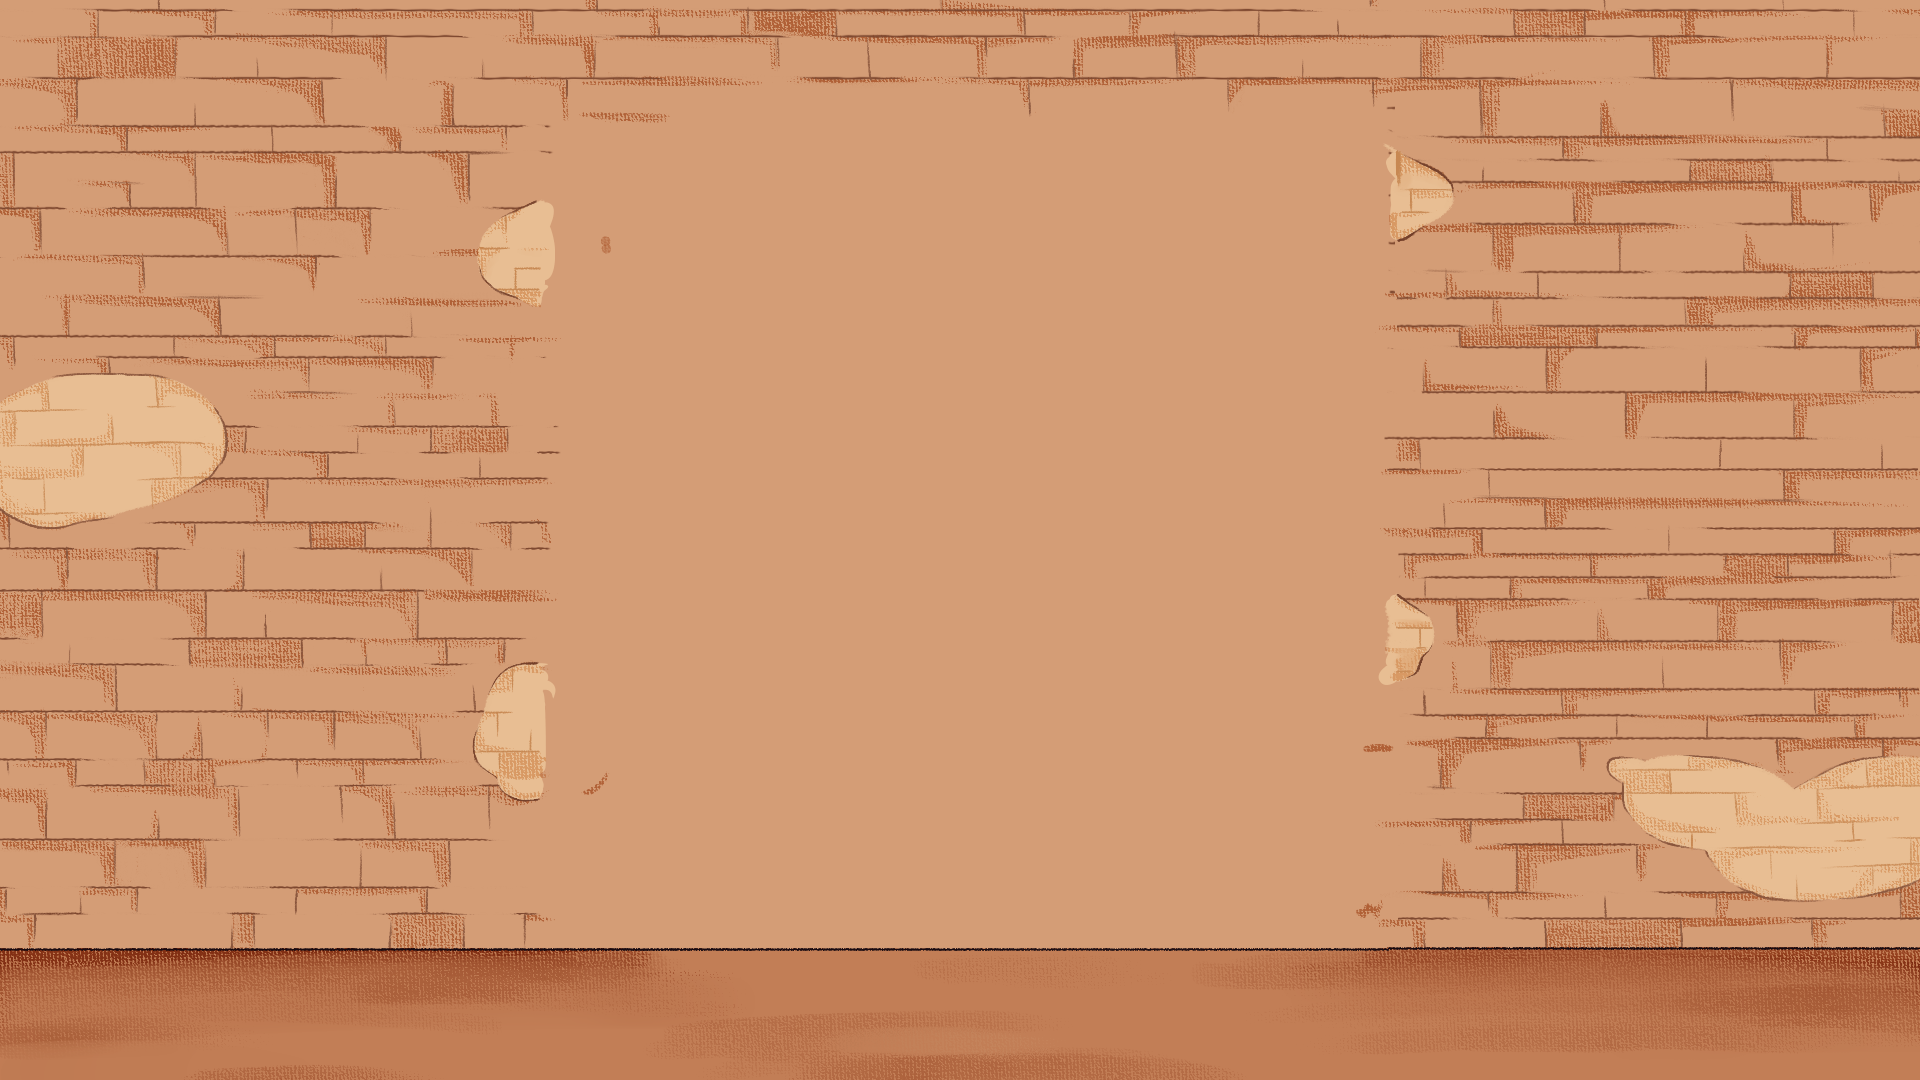
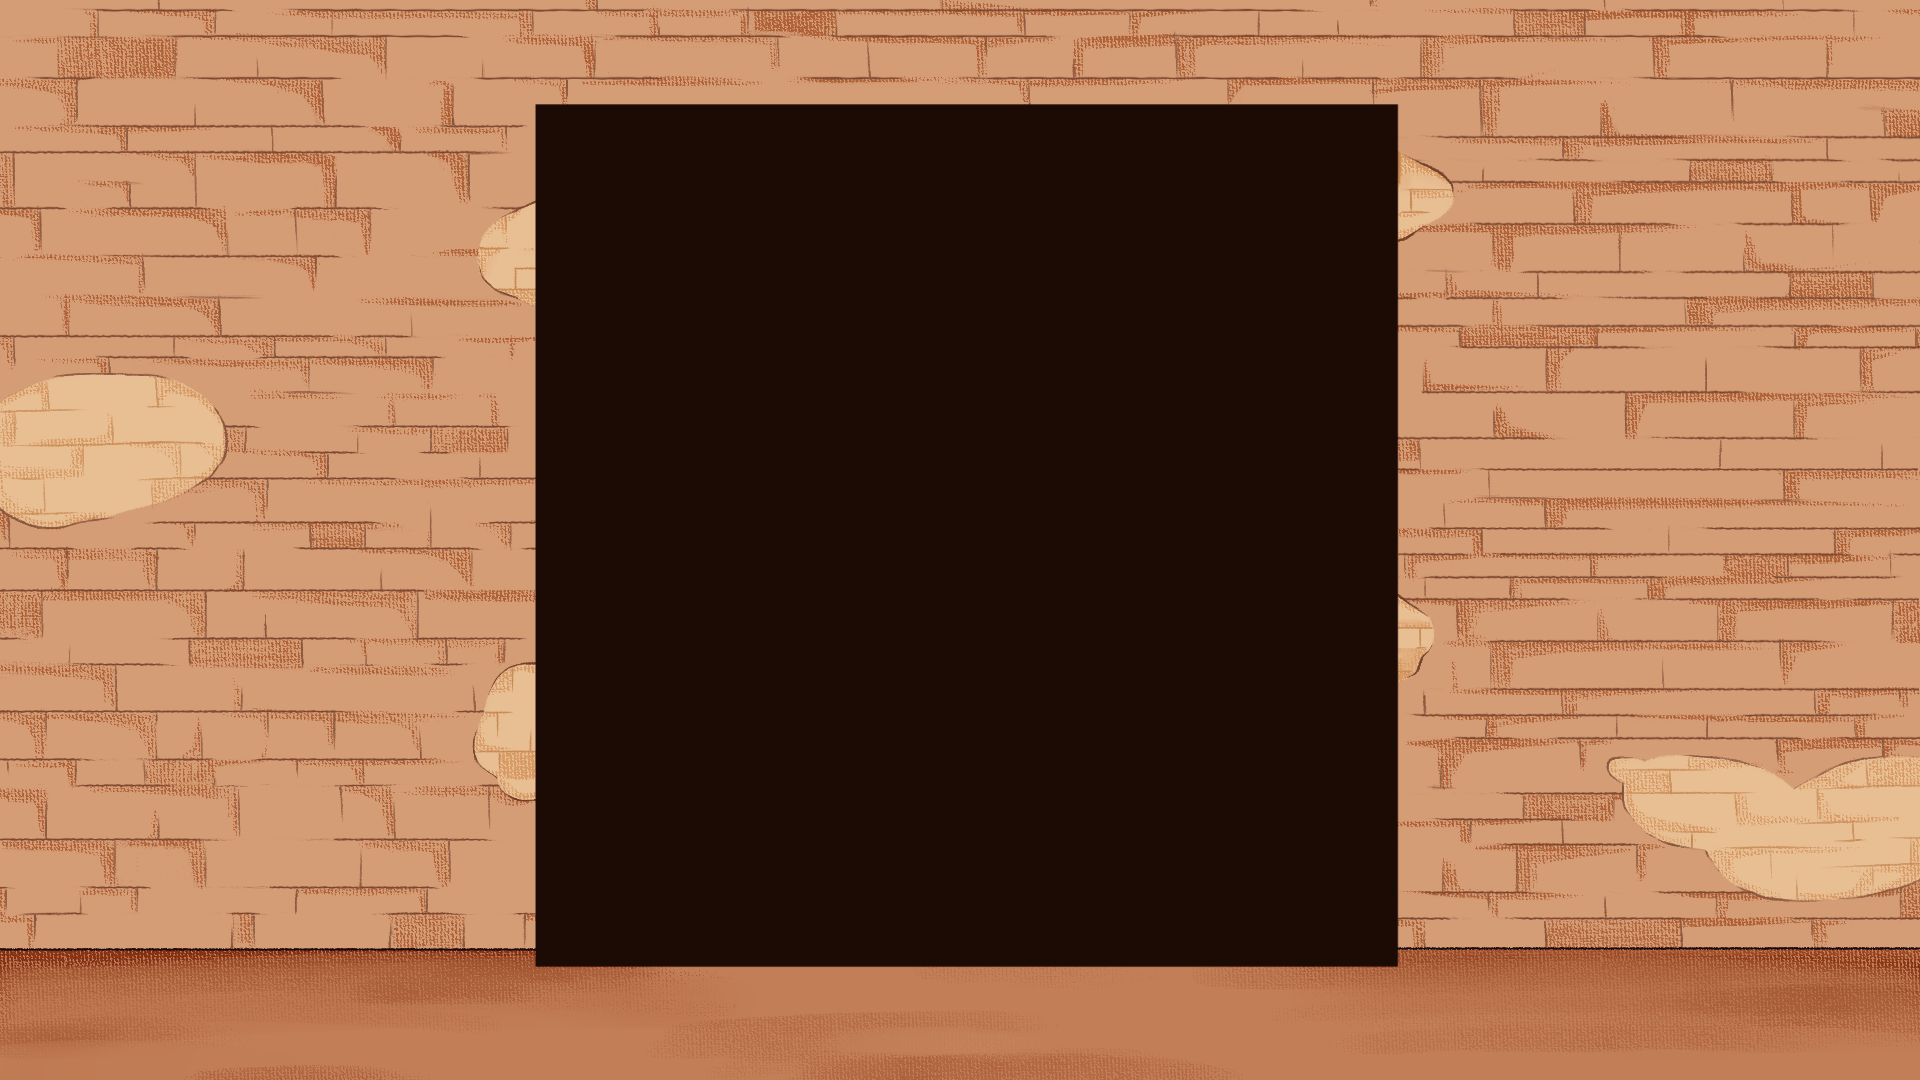
adjustments

diff --git a/Assets/Scripts/Minigame7Manager.cs b/Assets/Scripts/Minigame7Manager.cs
@@ -7,6 +7,10 @@ public class Minigame7Manager : MonoBehaviour
 {
     [ SerializeField ] private Transform gameTransform;
     [ SerializeField ] private Transform piecePrefab;
+    [ SerializeField ] private Transform backgroundPrefab; // Referencia al prefab del fondo
+    [ SerializeField ] private Transform canvasTransform;
+
+    [SerializeField] private Vector3 boardScale = Vector3.one;
 
     List< Transform > pieces;
 
@@ -51,19 +55,36 @@ public class Minigame7Manager : MonoBehaviour
                 }
             }
         }
+
+        // Genera el fondo del minijuego
+        GenerateBackground();
     }
+
+    void GenerateBackground()
+    {
+        // Instancia el fondo
+        Transform background = Instantiate(backgroundPrefab, canvasTransform);
+
+        // Establece la escala del fondo
+        background.localScale = new Vector3(0.925f, 0.925f, 1);
+
+        // Establece la posición del fondo, colocando un valor negativo en el eje Z para que esté detrás de las piezas
+        background.localPosition = new Vector3(0, 0, 1);
+    }
+
 
     void Start ()
     {
         numberOfMoves = 0;
         movesText.text = $"Movimientos: {numberOfMoves}";
-        pieces = new List< Transform >();
-        CreateGamePieces( 0.01f );
+        pieces = new List<Transform>();
+        CreateGamePieces(0.01f);
         Shuffle();
     }
 
     void Update ()
     {
+        gameTransform.localScale = boardScale; // Aplica la escala del tablero
         movesText.text = $"Movimientos: {numberOfMoves}";
 
         bool pieceClicked = Input.GetMouseButtonDown( 0 );
